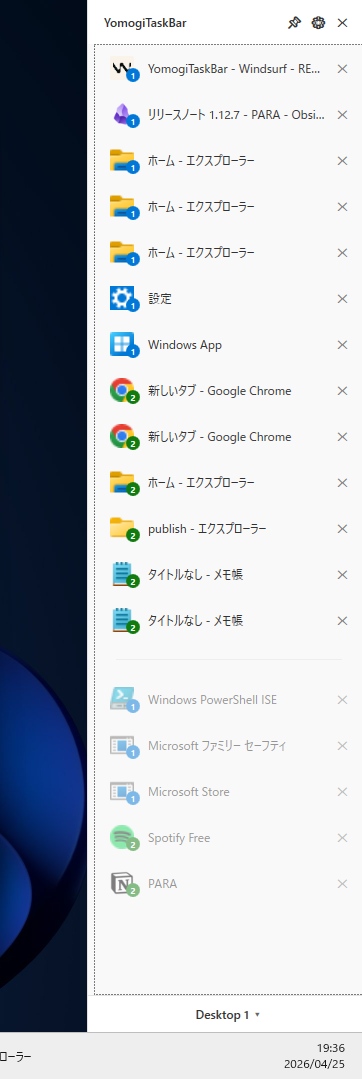
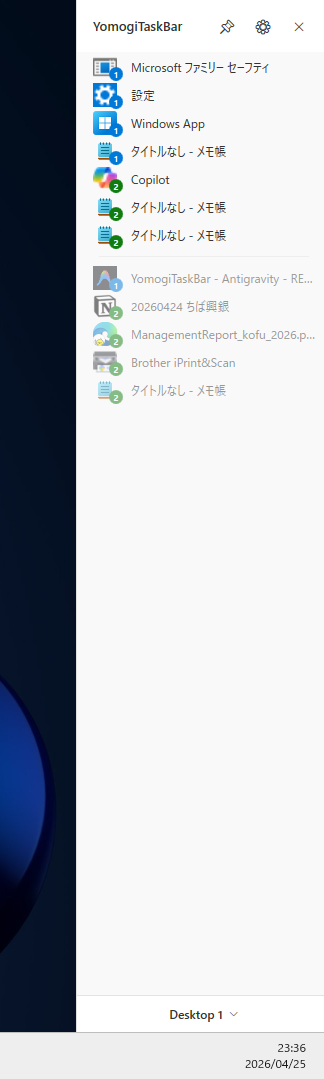
ボタン調整

diff --git a/MainWindow.xaml b/MainWindow.xaml
@@ -177,7 +177,7 @@
                      AutomationProperties.Name="ウィンドウリスト" AutomationProperties.HelpText="実行中のアプリケーション一覧。選択してウィンドウを切り替えます">
                 <ListBox.ItemTemplate>
                     <DataTemplate>
-                        <Grid Margin="5,2" Background="Transparent" x:Name="RootGrid">
+                        <Grid Margin="5,11" Background="Transparent" x:Name="RootGrid">
                             <Grid x:Name="ContentGrid">
                                 <Grid.ColumnDefinitions>
                                     <ColumnDefinition Width="32"/>
@@ -198,23 +198,16 @@
                                 <Grid Grid.Column="1">
                                     <TextBlock Text="{Binding Title}" VerticalAlignment="Center" FontSize="12"
                                                Margin="10,0,0,0" TextTrimming="CharacterEllipsis"
-                                               Foreground="{DynamicResource PrimaryTextBrush}"
+                                               Foreground="{DynamicResource PrimaryTextBrush}" Panel.ZIndex="0"
                                                AutomationProperties.Name="{Binding Title}" AutomationProperties.HelpText="ウィンドウタイトル"/>
 
-                                    <!-- Hover buttons overlay: gradient + buttons appear on top of title -->
+                                    <!-- Hover buttons overlay: buttons appear on top of title -->
                                     <Border x:Name="HoverButtonOverlay" HorizontalAlignment="Right" VerticalAlignment="Stretch"
-                                            Opacity="0" Padding="30,0,0,0">
-                                        <Border.Background>
-                                            <LinearGradientBrush StartPoint="0,0" EndPoint="1,0">
-                                                <GradientStop Color="Transparent" Offset="0"/>
-                                                <GradientStop Color="{DynamicResource ItemHoverColor}" Offset="0.5"/>
-                                                <GradientStop Color="{DynamicResource ItemHoverColor}" Offset="1"/>
-                                            </LinearGradientBrush>
-                                        </Border.Background>
+                                            Opacity="0" Padding="15,0,0,0" Margin="0,-11,0,-11" Background="Transparent" Panel.ZIndex="10">
                                         <StackPanel Orientation="Horizontal" VerticalAlignment="Center" Margin="0,0,4,0">
                                             <!-- Minimize/Restore Button -->
                                             <Button x:Name="ItemMinRestoreBtn" Content="─" Width="20" Height="20" Margin="0,0,4,0"
-                                                    Background="#22000000" BorderThickness="0"
+                                                    Background="#FFB0B0B0" BorderThickness="1" BorderBrush="#66808080"
                                                     Foreground="{DynamicResource PrimaryTextBrush}" FontSize="10" FontWeight="Bold"
                                                     Cursor="Hand" Click="MinimizeRestoreItemButton_Click" ToolTip="最小化"
                                                     AutomationProperties.Name="最小化/復元ボタン">
@@ -223,12 +216,13 @@
                                                         <Setter Property="Template">
                                                             <Setter.Value>
                                                                 <ControlTemplate TargetType="Button">
-                                                                    <Border x:Name="Border" Background="{TemplateBinding Background}" CornerRadius="10">
+                                                                    <Border x:Name="Border" Background="{TemplateBinding Background}" BorderThickness="{TemplateBinding BorderThickness}" BorderBrush="{TemplateBinding BorderBrush}" CornerRadius="10">
                                                                         <ContentPresenter HorizontalAlignment="Center" VerticalAlignment="Center"/>
                                                                     </Border>
                                                                     <ControlTemplate.Triggers>
                                                                         <Trigger Property="IsMouseOver" Value="True">
                                                                             <Setter TargetName="Border" Property="Background" Value="{DynamicResource BorderBrush}"/>
+                                                                            <Setter TargetName="Border" Property="BorderBrush" Value="{DynamicResource PrimaryTextBrush}"/>
                                                                         </Trigger>
                                                                     </ControlTemplate.Triggers>
                                                                 </ControlTemplate>
@@ -240,7 +234,7 @@
 
                                             <!-- Close Button -->
                                             <Button x:Name="ItemCloseBtn" Content="✕" Width="20" Height="20"
-                                                    Background="#22000000" BorderThickness="0"
+                                                    Background="#FFB0B0B0" BorderThickness="1" BorderBrush="#66808080"
                                                     Foreground="{DynamicResource PrimaryTextBrush}" FontSize="10" FontWeight="Bold"
                                                     Cursor="Hand" Click="CloseItemButton_Click" ToolTip="このウィンドウを閉じる"
                                                     AutomationProperties.Name="ウィンドウを閉じる"
@@ -250,12 +244,13 @@
                                                         <Setter Property="Template">
                                                             <Setter.Value>
                                                                 <ControlTemplate TargetType="Button">
-                                                                    <Border x:Name="Border" Background="{TemplateBinding Background}" CornerRadius="10">
+                                                                    <Border x:Name="Border" Background="{TemplateBinding Background}" BorderThickness="{TemplateBinding BorderThickness}" BorderBrush="{TemplateBinding BorderBrush}" CornerRadius="10">
                                                                         <ContentPresenter HorizontalAlignment="Center" VerticalAlignment="Center"/>
                                                                     </Border>
                                                                     <ControlTemplate.Triggers>
                                                                         <Trigger Property="IsMouseOver" Value="True">
                                                                             <Setter TargetName="Border" Property="Background" Value="#E81123"/>
+                                                                            <Setter TargetName="Border" Property="BorderBrush" Value="White"/>
                                                                             <Setter Property="Foreground" Value="White"/>
                                                                         </Trigger>
                                                                     </ControlTemplate.Triggers>
@@ -285,6 +280,8 @@
                                 <Setter TargetName="ContentGrid" Property="Opacity" Value="0.5"/>
                                 <Setter TargetName="ItemMinRestoreBtn" Property="Content" Value="&#x2191;"/>
                                 <Setter TargetName="ItemMinRestoreBtn" Property="ToolTip" Value="元に戻す"/>
+                                <Setter TargetName="ItemMinRestoreBtn" Property="Opacity" Value="2"/>
+                                <Setter TargetName="ItemCloseBtn" Property="Opacity" Value="2"/>
                             </DataTrigger>
                             <DataTrigger Binding="{Binding MonitorIndex}" Value="0">
                                 <Setter TargetName="MonitorBadge" Property="Visibility" Value="Collapsed"/>
@@ -306,7 +303,7 @@
                 </ListBox.ItemTemplate>
                 <ListBox.ItemContainerStyle>
                     <Style TargetType="ListBoxItem">
-                        <Setter Property="Padding" Value="5"/>
+                        <Setter Property="Padding" Value="5,10"/>
                         <Setter Property="Cursor" Value="Hand"/>
                         <Setter Property="HorizontalContentAlignment" Value="Stretch"/>
                         <Setter Property="Template">

diff --git a/README.md b/README.md
@@ -2,54 +2,19 @@
 
 YomogiTaskBarは、Windows用の垂直型タスクバーです。
 
-私はウィンドウを多数開いて必要なウィンドウが探せないことが多い。
-それを解決するためにタスクバーの代替として作成しました。
-アプリの呼び出しや終了を、手早く操作できる事を目的として作成しています。
-
-
-YomogiTaskBar is a vertical taskbar for Windows.
-
-I often have many windows open and can't find the window I need.
-I created this as an alternative to the taskbar to solve that problem.
-I created it with the purpose of being able to quickly call up and exit applications.
-
 
 ## Features / 機能
+- タスクバーの様に起動中アプリを一覧表示し、アプリの切り替えが可能
+- マウス操作での対象アプリへの切り替え
+- キー入力でのアプリの切り替え
+　- `Win+Esc` で本アプリをフォーカス。上下キーでアプリを選択。`Enter` でアクティブ
 
-- 表示方法の選択
-　- 現在起動しているアプリ一覧をサイドバーに表示
-　- マルチモニタ使用時はアイコンにモニタ番号を表示
-　- 通常ウィンドウは上部に、最小化ウィンドウは下部に表示されます。
-　- AppBar/エッジトリガーでの表示
-
-- マウス操作
-　- 一覧からアプリをアクティブ・終了できる
-
-- キーボード操作
-  - Win+Escで本アプリをフォーカス
-  - 矢印でアプリを選択
-  - Enterでアプリをアクティブ
-
-
-- Display Options
-  - Display list of running applications in sidebar
-  - Show monitor numbers on icons when using multiple monitors
-  - Normal windows displayed at top, minimized windows at bottom
-  - Display via AppBar/edge trigger
-
-- Mouse Operations
-  - Activate and exit applications from the list
-
-- Keyboard Operations
-  - Focus this app with Win+Esc
-  - Select applications with arrow keys
-  - Activate application with Enter
 
 
 ## Requirements / 要件
 
-- Windows
-- .NET 9.0 SDK
+- Windows 10 (Build 19041) or later
+- .NET 9.0 Runtime / SDK
 
 
 ## Build and Run / ビルドと実行
@@ -58,27 +23,28 @@ I created it with the purpose of being able to quickly call up and exit applicat
 2. リポジトリのルートから次を実行します。
 
 ```powershell
-cd YomogiTaskBar
 dotnet build
 dotnet run --project YomogiTaskBar.csproj
 ```
 
+
 ## Project Structure / プロジェクト構成
 
-- `YomogiTaskBar.csproj` - WPFアプリケーションのプロジェクトファイル
-- `App.xaml` / `App.xaml.cs` - アプリ起動
-- `MainWindow.xaml` / `MainWindow.xaml.cs` - メインサイドバーのUIとアプリロジック
-- `SettingsWindow.xaml` / `SettingsWindow.xaml.cs` - 設定ダイアログとショートカット設定
-- `Managers/` - テーマ、設定、ホットキー、起動、ウィンドウ管理のヘルパー
-- `Models/` - アプリ設定とショートカット構成のモデル
-- `Themes/` - ライトおよびダークテーマリソース
+- `YomogiTaskBar.csproj` - プロジェクトファイル / Project file
+- `App.xaml` / `App.xaml.cs` - アプリ起動と多重起動防止 / App entry and single instance logic
+- `MainWindow.xaml` / `MainWindow.xaml.cs` - メインタスクバーのUIと制御 / Main sidebar UI and logic
+- `SettingsWindow.xaml` / `SettingsWindow.xaml.cs` - 設定画面 / Settings window
+- `Controllers/` - AppBar制御とウィンドウ状態管理 / AppBar control and window state management
+- `ViewModels/` - 表示用データモデル / ViewModels for UI binding
+- `Managers/` - 各種機能管理（テーマ、設定、ホットキー等） / Functional managers (Theme, Settings, Hotkeys, etc.)
+- `Models/` - 設定データ等のモデル定義 / Data models for settings and configurations
+- `Themes/` - テーマリソース（Dark/Light） / Theme resources
+- `Utilities/` - ネイティブAPI定義とロギング / Native API definitions and logging
 
 
 ## Notes / 注意事項
 
-- 本アプリは単一インスタンスを維持し、別のコピーがすでに実行中の場合はメッセージを表示します。
-- グローバルホットキーの登録は起動時に管理され、設定変更時に自動的に更新されます。
-- 本アプリはAIで作成しています。
+- 本アプリはAIによるプログラミングで作成しています。
 - プログラム経験が浅いため、コードの品質には注意が必要です。
 
 
@@ -89,7 +55,6 @@ This project is licensed under CC0-1.0.
 このプロジェクトはCC0-1.0の下でライセンスされています。
 
 
-## スクリーンショット / Screenshots
+## Screenshots / スクリーンショット
 
-### メイン画面 / Main Screen
-![メイン画面](images/screenshot-main.png)
+![Main Screen](images/screenshot-main.png)
